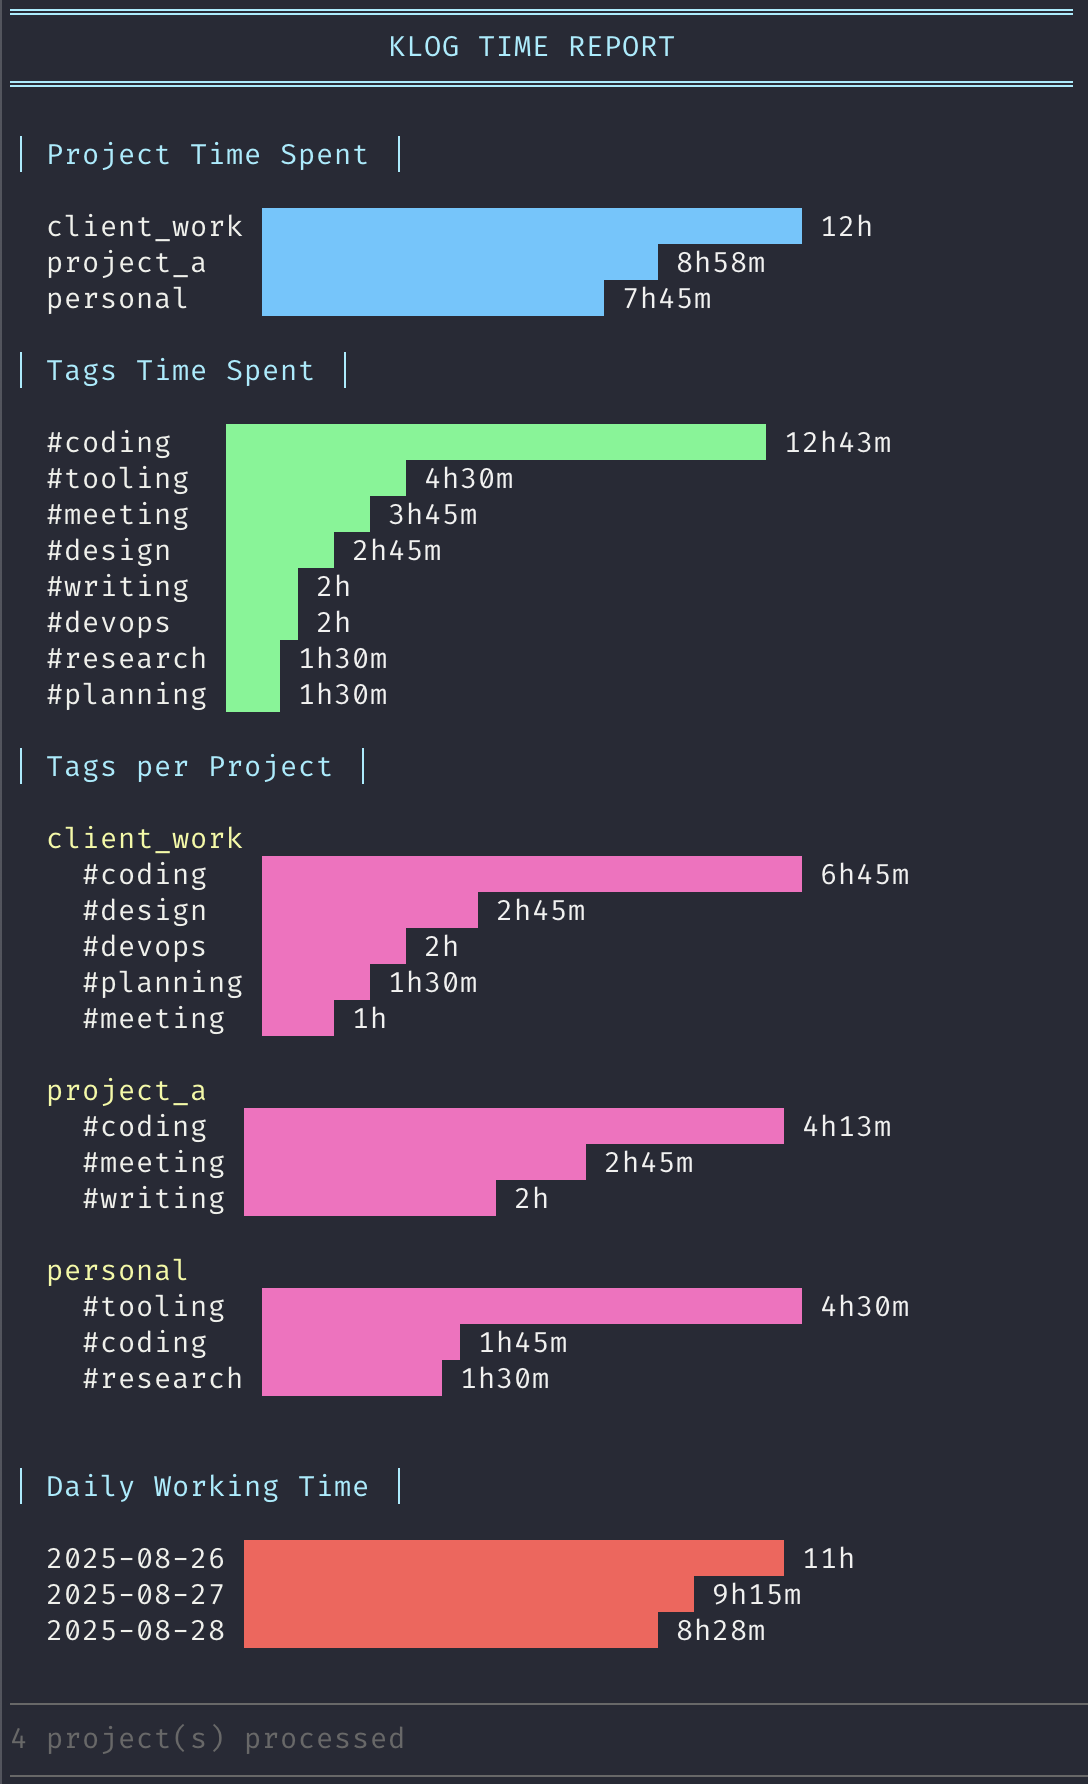
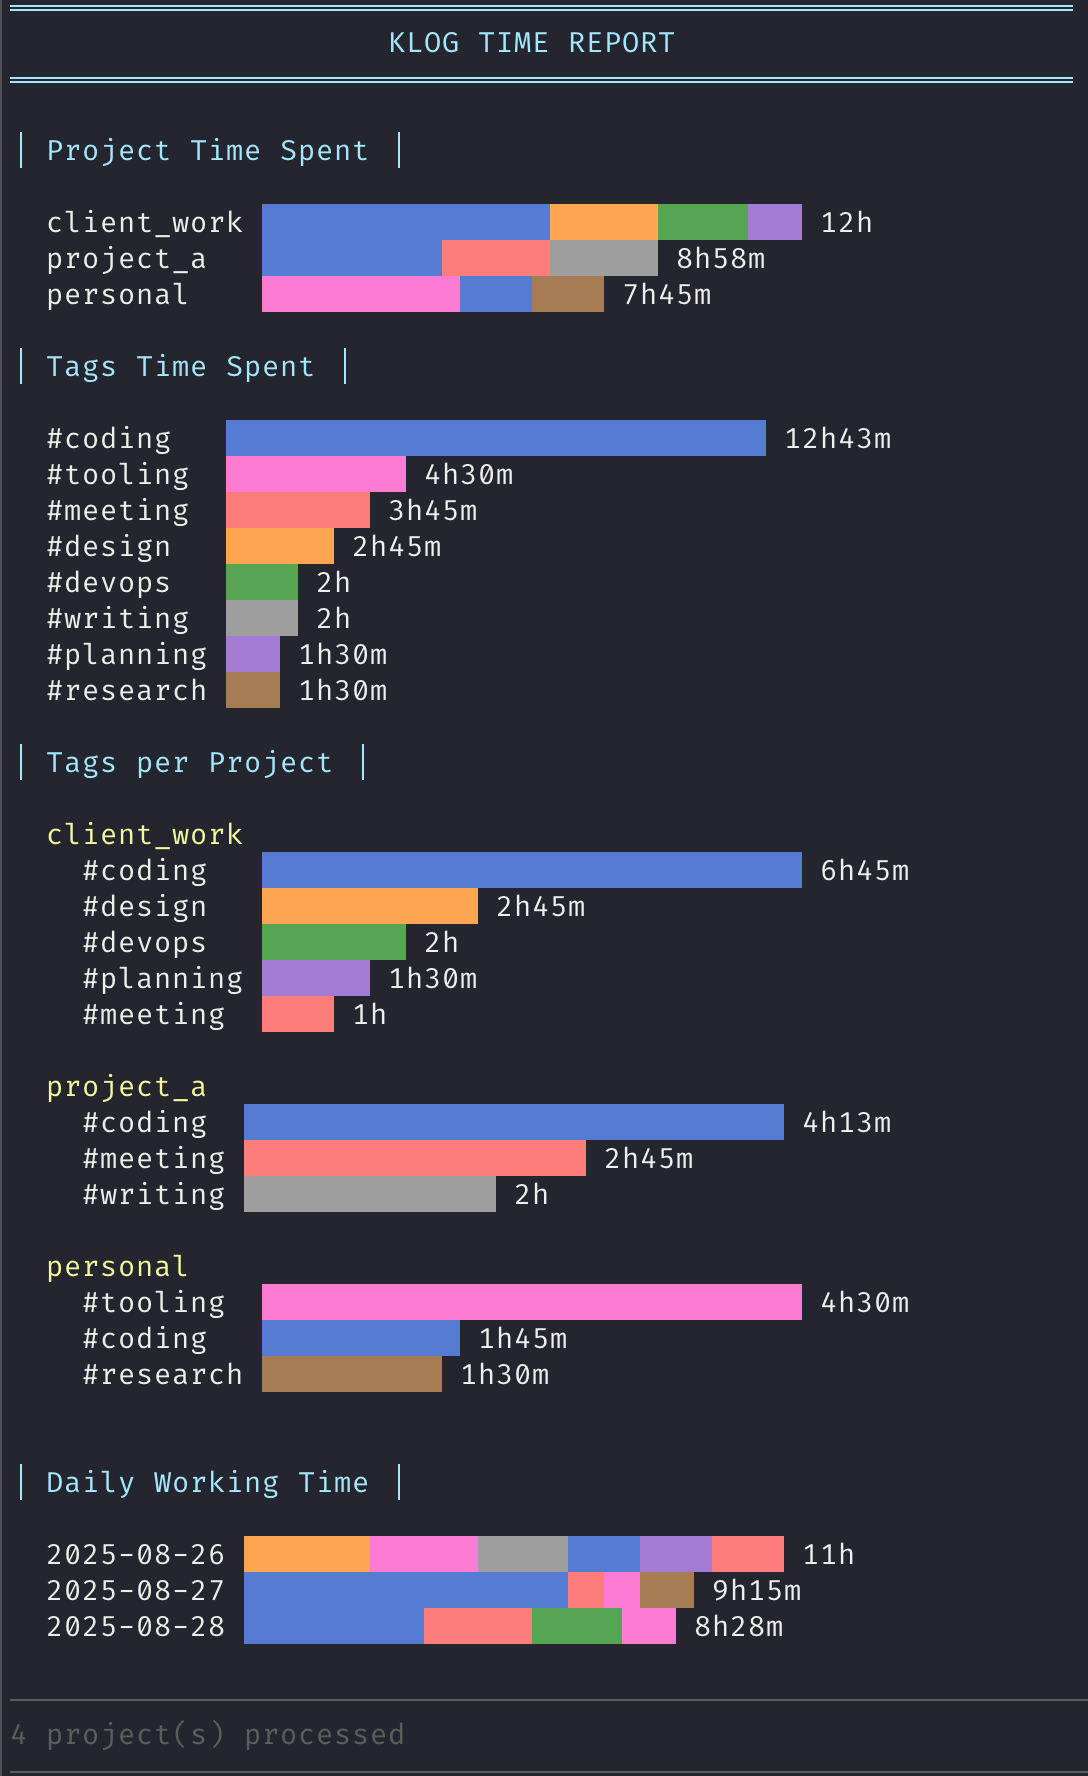
Print bar chart with colored segments for tag distribution

diff --git a/reports.go b/reports.go
@@ -9,40 +9,79 @@ import (
 
 func generateProjectReport(projects []Project) {
 	printSectionHeader("Project Time Spent")
-	var projectTimes []TimeData
+	
+	// Collect project data with tag breakdown
+	type ProjectInfo struct {
+		Name     string
+		Total    int
+		Segments []TagSegment
+	}
+	
+	var projectInfos []ProjectInfo
 	maxMins := 0
 
+	tagColorMap := getTagColorMap(projects)
+
 	for _, project := range projects {
+		tagTotals := make(map[string]int)
 		totalMins := 0
+		
 		for _, record := range project.Data.Records {
 			totalMins += record.TotalMins
+			for _, entry := range record.Entries {
+				for _, tag := range entry.Tags {
+					tagTotals[tag] += entry.TotalMins
+				}
+			}
 		}
+		
 		if totalMins > 0 {
-			projectTimes = append(projectTimes, TimeData{project.Name, totalMins})
+			// Create segments sorted by time (largest first)
+			var segments []TagSegment
+			for tag, mins := range tagTotals {
+				segments = append(segments, TagSegment{
+					Tag:   tag,
+					Mins:  mins,
+					Color: tagColorMap[tag],
+				})
+			}
+			
+			sort.Slice(segments, func(i, j int) bool {
+				return segments[i].Mins > segments[j].Mins
+			})
+			
+			projectInfos = append(projectInfos, ProjectInfo{
+				Name:     project.Name,
+				Total:    totalMins,
+				Segments: segments,
+			})
+			
 			if totalMins > maxMins {
 				maxMins = totalMins
 			}
 		}
 	}
 
-	if len(projectTimes) == 0 {
+	if len(projectInfos) == 0 {
 		fmt.Printf("  %s\n", color.HiBlackString("No time logged yet"))
 		return
 	}
 
-	sort.Slice(projectTimes, func(i, j int) bool {
-		return projectTimes[i].Mins > projectTimes[j].Mins
+	// Sort projects by total time
+	sort.Slice(projectInfos, func(i, j int) bool {
+		return projectInfos[i].Total > projectInfos[j].Total
 	})
 
+	// Calculate max label width
 	var labels []string
-	for _, pt := range projectTimes {
-		labels = append(labels, pt.Label)
+	for _, pi := range projectInfos {
+		labels = append(labels, pi.Name)
 	}
 	maxLabelWidth := calculateMaxLabelWidth(labels)
 
-	projectColor := color.New(color.FgHiBlue)
-	for _, pt := range projectTimes {
-		printBar(pt.Label, pt.Mins, maxMins, projectColor, maxLabelWidth)
+	// Print segmented bars
+	for _, pi := range projectInfos {
+		printSegmentedBar(pi.Name, pi.Segments, pi.Total, maxMins, maxLabelWidth)
 	}
 }
 
@@ -170,12 +209,35 @@ func generateTagsPerProjectReport(projects []Project, tagColorMap map[string]*co
 
 func generateDailyReport(projects []Project) {
 	printSectionHeader("Daily Working Time")
-	dayTotals := make(map[string]int)
+	
+	// Aggregate by day with tag breakdown
+	type DayInfo struct {
+		Date     string
+		Total    int
+		Segments []TagSegment
+	}
+	
+	dayTagTotals := make(map[string]map[string]int) // date -> tag -> mins
+	dayTotals := make(map[string]int)               // date -> total mins
 	maxMins := 0
+
+	// Get tag color mapping
+	tagColorMap := getTagColorMap(projects)
 
 	for _, project := range projects {
 		for _, record := range project.Data.Records {
+			if dayTagTotals[record.Date] == nil {
+				dayTagTotals[record.Date] = make(map[string]int)
+			}
+			
 			dayTotals[record.Date] += record.TotalMins
+			
+			for _, entry := range record.Entries {
+				for _, tag := range entry.Tags {
+					dayTagTotals[record.Date][tag] += entry.TotalMins
+				}
+			}
+			
 			if dayTotals[record.Date] > maxMins {
 				maxMins = dayTotals[record.Date]
 			}
@@ -187,23 +249,43 @@ func generateDailyReport(projects []Project) {
 		return
 	}
 
-	var dayTimes []TimeData
-	for date, mins := range dayTotals {
-		dayTimes = append(dayTimes, TimeData{date, mins})
+	var dayInfos []DayInfo
+	for date, total := range dayTotals {
+		var segments []TagSegment
+		for tag, mins := range dayTagTotals[date] {
+			segments = append(segments, TagSegment{
+				Tag:   tag,
+				Mins:  mins,
+				Color: tagColorMap[tag],
+			})
+		}
+		
+		// Sort segments by time (largest first)
+		sort.Slice(segments, func(i, j int) bool {
+			return segments[i].Mins > segments[j].Mins
+		})
+		
+		dayInfos = append(dayInfos, DayInfo{
+			Date:     date,
+			Total:    total,
+			Segments: segments,
+		})
 	}
 
-	sort.Slice(dayTimes, func(i, j int) bool {
-		return dayTimes[i].Label < dayTimes[j].Label
+	// Sort by date
+	sort.Slice(dayInfos, func(i, j int) bool {
+		return dayInfos[i].Date < dayInfos[j].Date
 	})
 
+	// Calculate max label width
 	var labels []string
-	for _, dt := range dayTimes {
-		labels = append(labels, dt.Label)
+	for _, di := range dayInfos {
+		labels = append(labels, di.Date)
 	}
 	maxLabelWidth := calculateMaxLabelWidth(labels)
 
-	dayColor := color.New(color.FgHiRed)
-	for _, dt := range dayTimes {
-		printBar(dt.Label, dt.Mins, maxMins, dayColor, maxLabelWidth)
+	// Print segmented bars
+	for _, di := range dayInfos {
+		printSegmentedBar(di.Date, di.Segments, di.Total, maxMins, maxLabelWidth)
 	}
 }

diff --git a/render.go b/render.go
@@ -8,6 +8,13 @@ import (
 	"github.com/fatih/color"
 )
 
+// TagSegment represents a colored segment within a bar
+type TagSegment struct {
+	Tag   string
+	Mins  int
+	Color *color.Color
+}
+
 func getTagColorMap(projects []Project) map[string]*color.Color {
 	tagTotals := make(map[string]int)
 	
@@ -58,6 +65,50 @@ func printBar(label string, mins int, maxMins int, barColor *color.Color, maxLab
 	
 	fmt.Printf("  %-*s ", maxLabelWidth, label)
 	barColor.Print(bar)
+	fmt.Printf(" %s\n", color.HiWhiteString(duration))
+}
+
+// printSegmentedBar creates a bar with colored segments for tag distribution
+func printSegmentedBar(label string, segments []TagSegment, totalMins int, maxMins int, maxLabelWidth int) {
+	maxBarLength := 30
+	totalBarLength := 0
+	if maxMins > 0 {
+		totalBarLength = (totalMins * maxBarLength) / maxMins
+	}
+	if totalBarLength == 0 && totalMins > 0 {
+		totalBarLength = 1
+	}
+
+	// Calculate segment lengths proportionally
+	var segmentLengths []int
+	usedLength := 0
+	
+	for i, segment := range segments {
+		var segmentLength int
+		if i == len(segments)-1 {
+			// Last segment gets remaining length to avoid rounding errors
+			segmentLength = totalBarLength - usedLength
+		} else {
+			segmentLength = (segment.Mins * totalBarLength) / totalMins
+			if segmentLength == 0 && segment.Mins > 0 {
+				segmentLength = 1 // Ensure visible representation
+			}
+		}
+		segmentLengths = append(segmentLengths, segmentLength)
+		usedLength += segmentLength
+	}
+
+	// Print the bar
+	fmt.Printf("  %-*s ", maxLabelWidth, label)
+	
+	for i, segment := range segments {
+		if segmentLengths[i] > 0 {
+			bar := strings.Repeat("█", segmentLengths[i])
+			segment.Color.Print(bar)
+		}
+	}
+	
+	duration := formatDuration(totalMins)
 	fmt.Printf(" %s\n", color.HiWhiteString(duration))
 }
 
